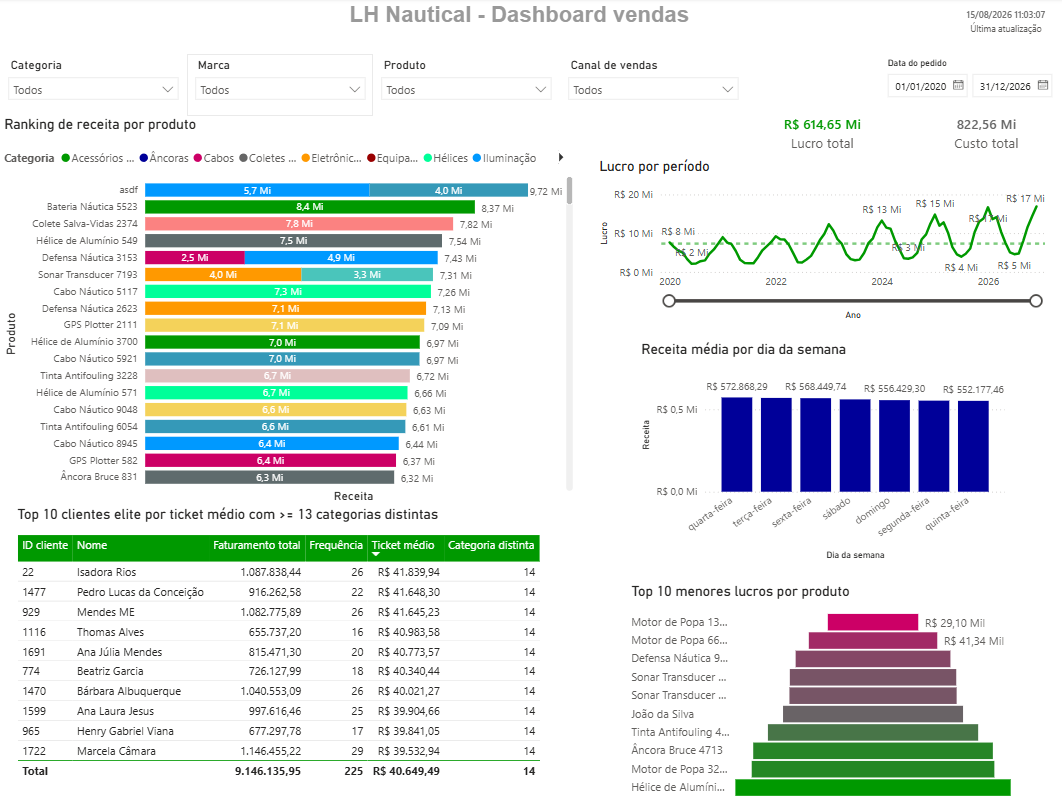
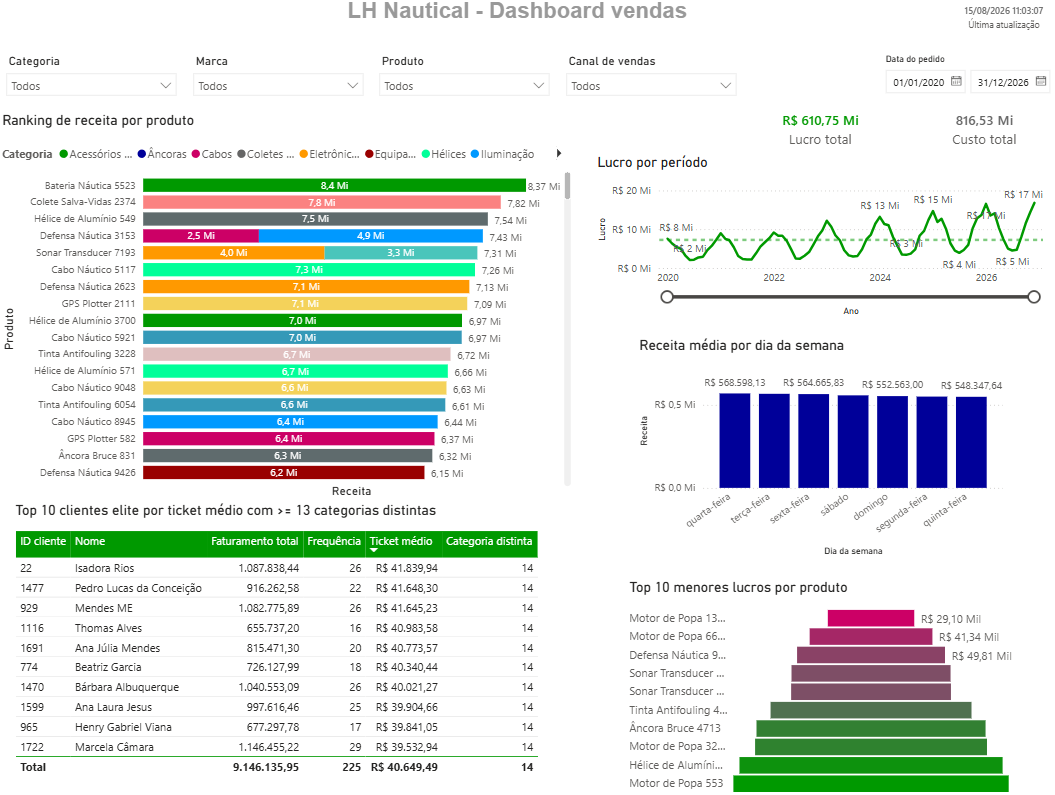
Updated BI filters and updated README.md file.

diff --git a/README.md b/README.md
@@ -3,7 +3,7 @@
 ### Project Overview
 
 <p align="center">
-  <img src="img/anchor_icon.png" alt="Anchor Icon">
+  <img src="img/anchor_icon.png" alt="Anchor Icon"  height="200" weight="300">
 </p>
 
 > A Continuous improvement project developed as part of the selection process for Indicium AI's Lighthouse Program, based on a fictional e-commerce case for LH Nautical. The project involved data analysis, identification of improvement opportunities, and the application of continuous improvement concepts to support decision-making, using Python, Power BI and SQL.
